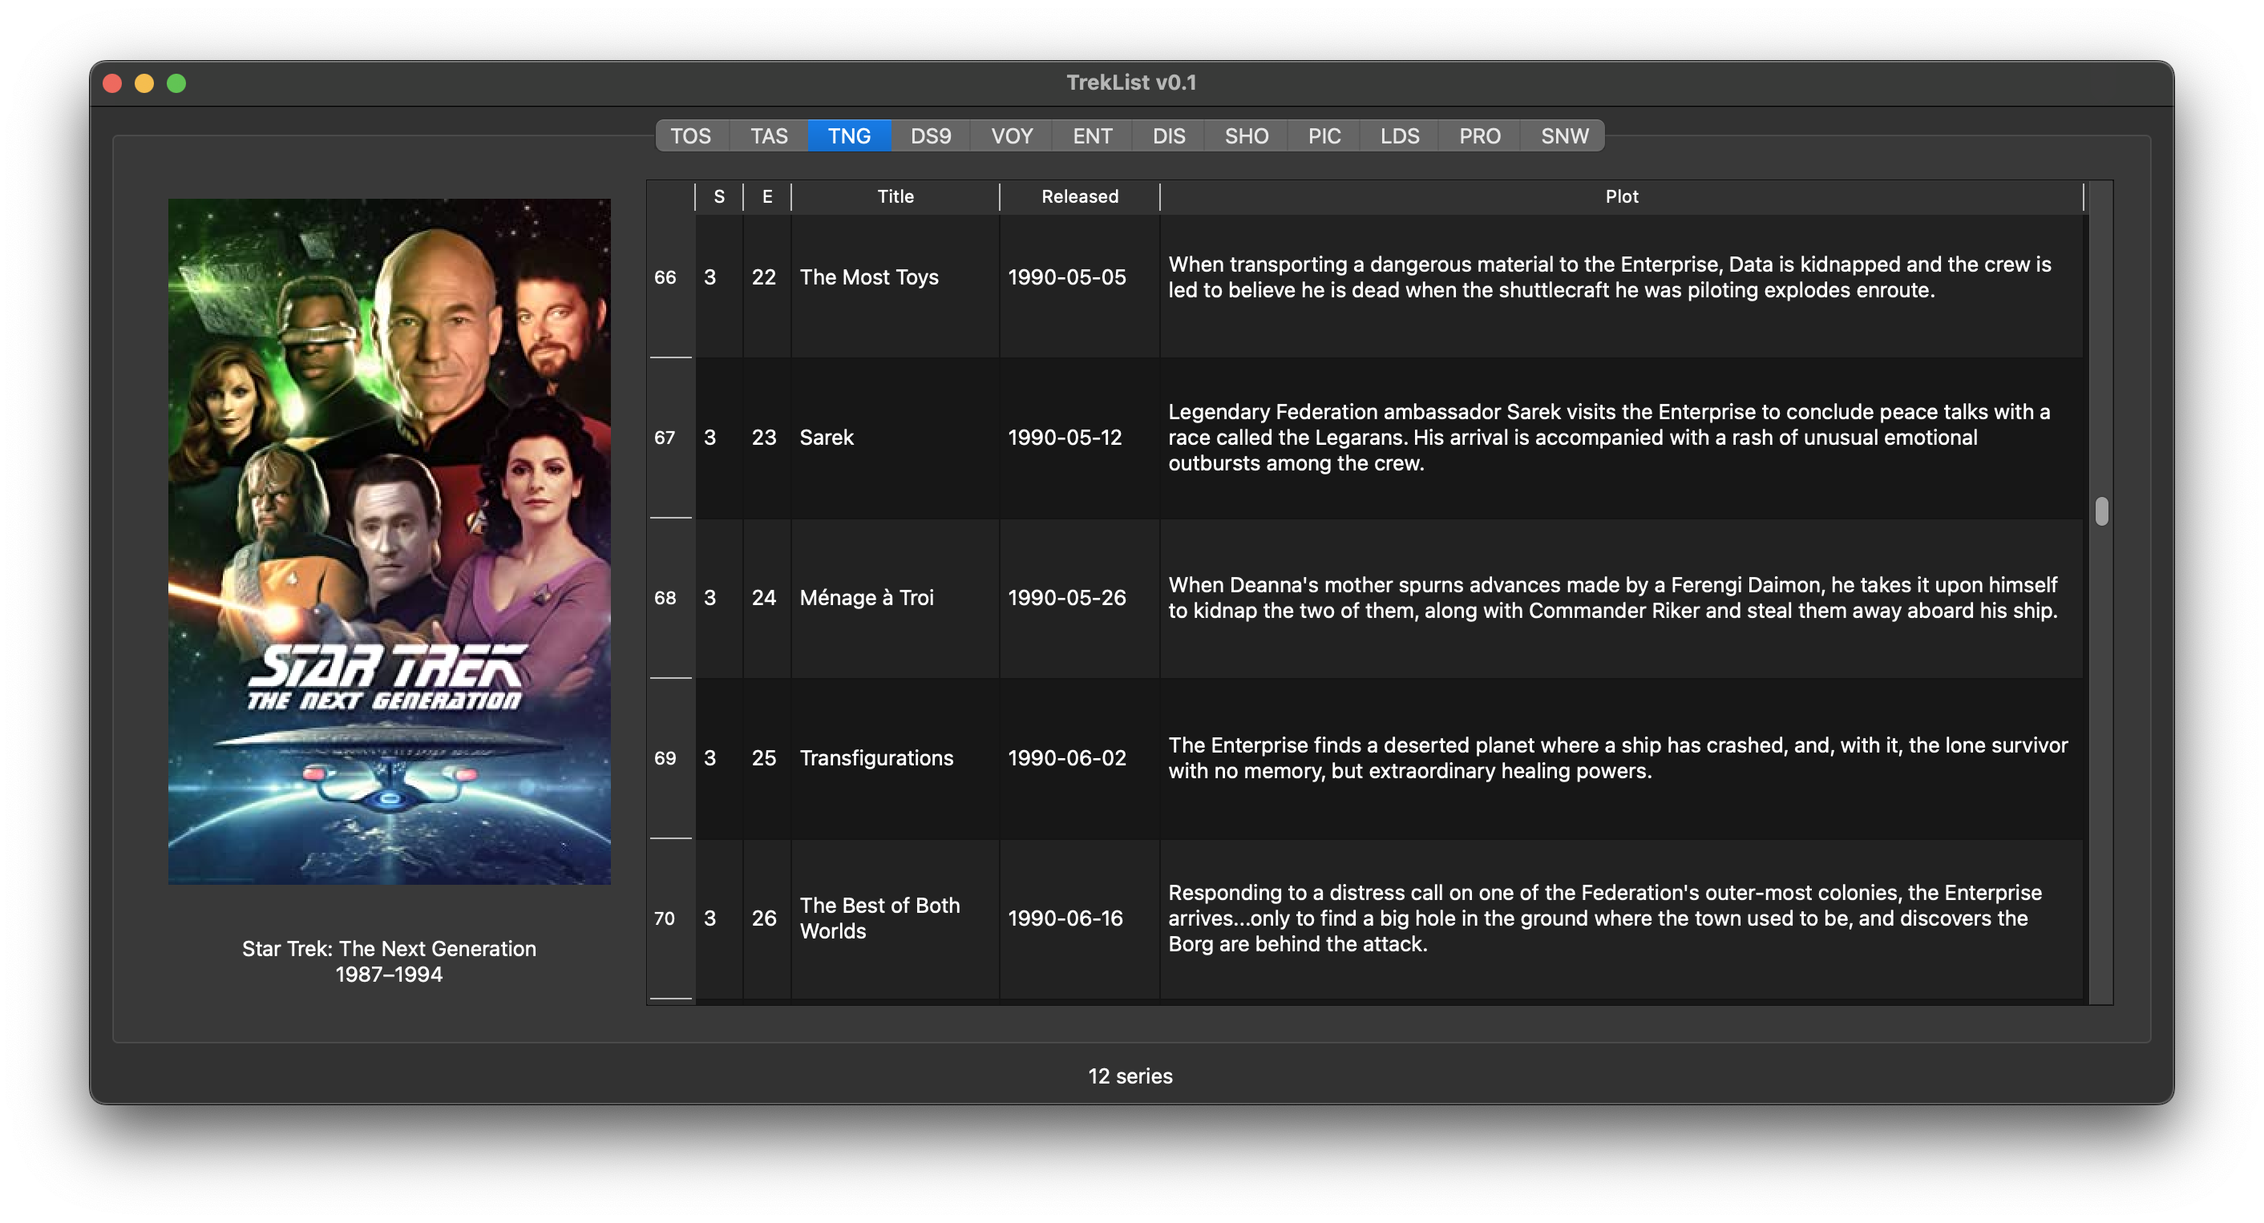
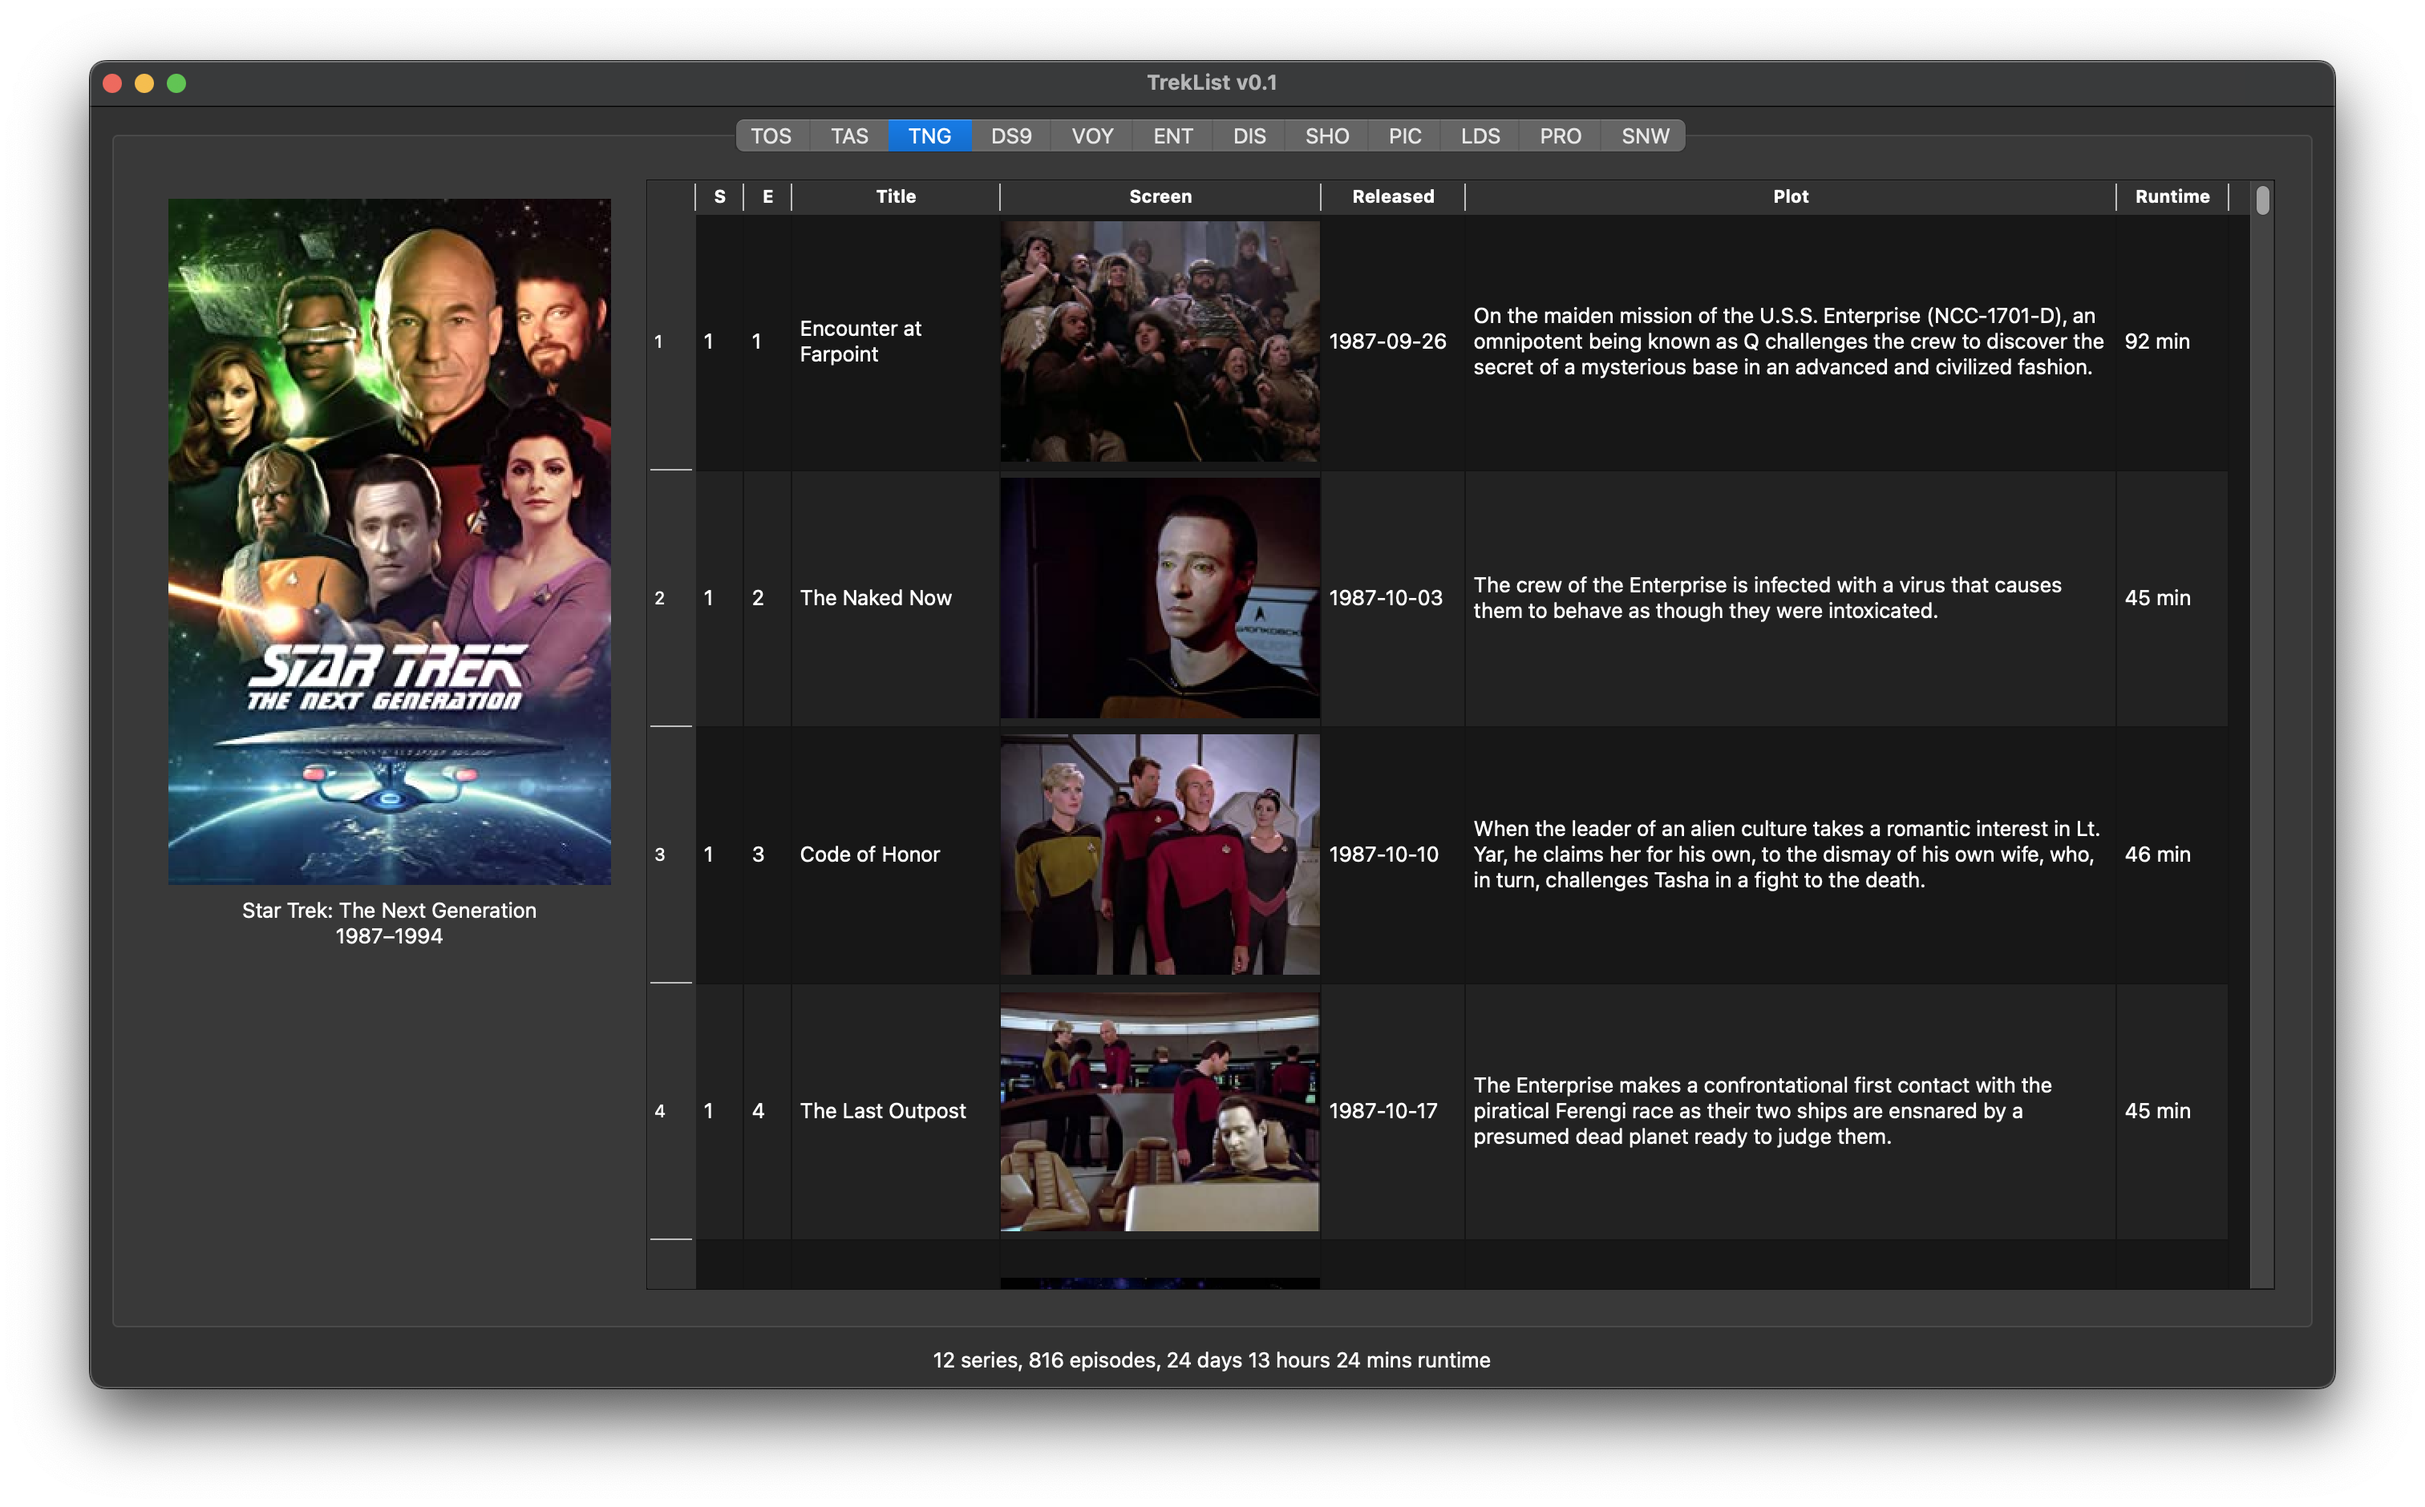
got screenshots all working (but its sloppy)

diff --git a/treklist.py b/treklist.py
@@ -143,15 +143,22 @@ class seriesTabWidget(QWidget):
             this_tab_layout.addWidget(series_info)
             
             # add table
-            df = pd.read_sql_query(f"SELECT * FROM {parent.series['abbs'][i]}", parent.tl_conn)
+            df_orig = pd.read_sql_query(f"SELECT * FROM {parent.series['abbs'][i]}", parent.tl_conn)
             #df = df.drop(columns=['imdb_id','poster'])
-            df = df.filter(['season', 'episode', 'title', 'plot', 'released', 'runtime'], axis=1)
+            df = df_orig.filter(['season', 'episode', 'title', 'plot', 'released', 'runtime'], axis=1)
             df = df.astype({"season": str, "episode": str}, errors='raise') 
             data = df.to_dict('list')
             n_cols = len(data.keys())
             n_rows = len(df)
-            table_wdgt = seriesTableView(data, n_rows, n_cols)
+            table_wdgt = seriesTableView(data, parent.series["abbs"][i], parent, n_rows, n_cols)
             this_tab_layout.addWidget(table_wdgt)
+
+            # add screenshots
+            for j, row in df_orig.iterrows():
+                parent.tl_curs.execute(f"SELECT poster FROM {parent.series['abbs'][i]} WHERE imdb_id = '{row['imdb_id']}'")
+                record    = parent.tl_curs.fetchall()
+                pix_map   = QPixmap()
+                #pix_map.loadFromData(record[0][6])
 
             # assign layout
             tab.setLayout(this_tab_layout)
@@ -171,9 +178,11 @@ class seriesTableView(QTableWidget):
     """
     Series Table View
     """
-    def __init__(self, data, *args):
+    def __init__(self, data, series, parent, *args):
         QTableWidget.__init__(self, *args)
+        self.series = series
         self.data = data
+        self.parent = parent
         #self.data = {k : data[k] for k in key_order}
         self.setData()
         #self.resizeColumnsToContents()
@@ -205,9 +214,15 @@ class seriesTableView(QTableWidget):
         font = QFont()
         font.setBold(True)
         self.horizontalHeader().setFont(font)
- 
+        
         # make nothing editable
         #self.setEditTriggers(QAbstractItemView.)
+
+        # loop through and set all posters
+        for row in range(len(self.data['season'])):
+            col = 6
+            self.setImage(row, col)
+            #setImage(row, col, )
 
     def setData(self): 
         horHeaders = []
@@ -218,24 +233,39 @@ class seriesTableView(QTableWidget):
                 self.setItem(m, n, newitem)
         self.setHorizontalHeaderLabels(horHeaders)
 
-    def setImage(self, row, col, imageData):
+    def setImage(self, row, col):
         """
         Sets a cell to the specified image data
         """
-        pass
+        #pass
+        season = self.data['season'][row]
+        episode = self.data['episode'][row]
+        self.parent.tl_curs.execute(f"SELECT * from {self.series} WHERE season == '{season}' AND episode == '{episode}'")
+        record = self.parent.tl_curs.fetchall()
+        if len(record) > 0:
+            imgData = record[0][11]
+            ##print(imgData)#
+            #exit
+            imgwid = ImageWidget(imgData, self)
+            self.setCellWidget(row, col, imgwid)
+
+        #self.cursor.execute("curs.execute("SELECT * FROM self.series WHERE imdb_id = 'tt0708469'")")
         #image = 
         #self.setCellWidget(row, col, image)
 
-class ImageWidget(QWidget):
+class ImageWidget(QLabel):
+    """
+    Image widget for SQL BLOB images
+    """
 
     def __init__(self, imageData, parent):
         super(ImageWidget, self).__init__(parent)
         self.picture = QPixmap()
         self.picture.loadFromData(imageData)
-
-    def paintEvent(self, event):
-        painter = QPainter(self)
-        painter.drawPixmap(0, 0, self.picture)
+        self.picture = self.picture.scaled(200, 200,
+            aspectRatioMode=Qt.AspectRatioMode.KeepAspectRatio,
+            transformMode=Qt.TransformationMode.SmoothTransformation)
+        self.setPixmap(self.picture)
 
 def main():
     app = QApplication(sys.argv)
